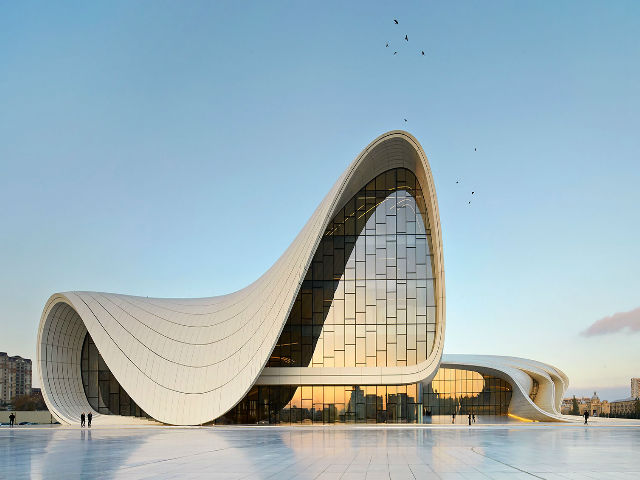
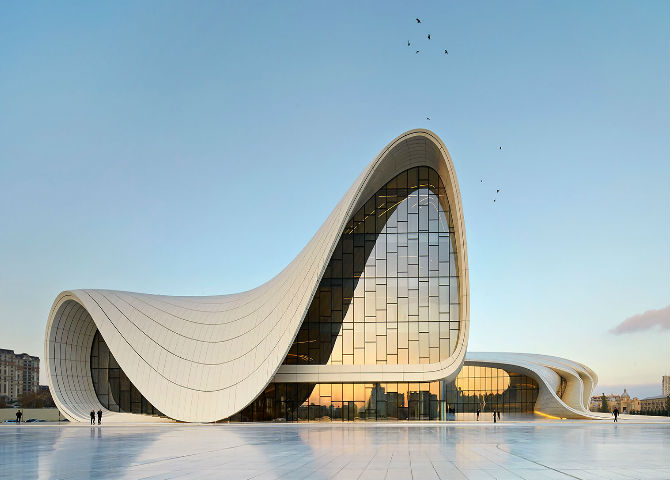
Reduced size of all slider images

diff --git a/infrastructure.php b/infrastructure.php
@@ -17,12 +17,14 @@
 
        <div class="infrastructure">
 
-         <div class="slider">
-           <ul class="bxslider">
-             <li><img src="images/Infrastructure/infrastructure1.jpg" /></li>
-             <li><img src="images/Infrastructure/infrastructure2.jpg" /></li>
-             <li><img src="images/Infrastructure/infrastructure3.jpg" /></li>
-           </ul>
+         <div class="col-md-offset-2 col-md-8 col-sm-offset-1 col-sm-10 col-lg-offset-2 col-lg-8">
+           <div class="slider">
+             <ul class="bxslider">
+               <li><img src="images/Infrastructure/infrastructure1new.jpg" /></li>
+               <li><img src="images/Infrastructure/infrastructure2new.jpg" /></li>
+               <li><img src="images/Infrastructure/infrastructure3new.jpg" /></li>
+             </ul>
+           </div>
          </div>
 
          <div class="col-md-8 col-lg-8">

diff --git a/construction.php b/construction.php
@@ -17,12 +17,14 @@
 
        <div class="construction">
 
-         <div class="slider">
-           <ul class="bxslider">
-             <li><img src="images/Construction/construction1.jpg" /></li>
-             <li><img src="images/Construction/construction2.jpg" /></li>
-             <li><img src="images/Construction/construction3.jpg" /></li>
-           </ul>
+         <div class="col-md-offset-2 col-md-8 col-sm-offset-1 col-sm-10 col-lg-offset-2 col-lg-8">
+           <div class="slider">
+             <ul class="bxslider">
+               <li><img src="images/Construction/construction1new.jpg" /></li>
+               <li><img src="images/Construction/construction2new.jpg" /></li>
+               <li><img src="images/Construction/construction3new.jpg" /></li>
+             </ul>
+           </div>
          </div>
 
          <div class="col-md-8 col-lg-8">

diff --git a/mep.php b/mep.php
@@ -17,12 +17,14 @@
 
        <div class="mep">
 
-         <div class="slider">
-           <ul class="bxslider">
-             <li><img src="images/MEP/mep1.jpg" /></li>
-             <li><img src="images/MEP/mep1.jpeg" /></li>
-             <li><img src="images/MEP/mep3.jpg" /></li>
-           </ul>
+         <div class="col-md-offset-2 col-md-8 col-sm-offset-1 col-sm-10 col-lg-offset-2 col-lg-8">
+           <div class="slider">
+             <ul class="bxslider">
+               <li><img src="images/MEP/mep1new.jpg" /></li>
+               <li><img src="images/MEP/mep2new.jpg" /></li>
+               <li><img src="images/MEP/mep3new.jpg" /></li>
+             </ul>
+           </div>
          </div>
 
          <div class="col-md-8 col-lg-8">

diff --git a/firefighting.php b/firefighting.php
@@ -17,11 +17,13 @@
 
        <div class="firefighting">
 
-         <div class="slider">
-           <ul class="bxslider">
-             <li><img src="images/Firefighting/firefighting1.jpg" /></li>
-             <li><img src="images/Firefighting/firefighting2.jpg" /></li>
-           </ul>
+         <div class="col-md-offset-2 col-md-8 col-sm-offset-1 col-sm-10 col-lg-offset-2 col-lg-8">
+           <div class="slider">
+             <ul class="bxslider">
+               <li><img src="images/Firefighting/firefighting1new.jpg" /></li>
+               <li><img src="images/Firefighting/firefighting2new.jpg" /></li>
+             </ul>
+           </div>
          </div>
 
          <div class="col-md-8 col-lg-8">

diff --git a/facility-management.php b/facility-management.php
@@ -17,12 +17,13 @@
 
        <div class="facility-management">
 
-         <div class="slider">
-           <ul class="bxslider">
-             <li><img src="images/Facility/facility1.jpg" /></li>
-             <li><img src="images/Facility/facility2.jpg" /></li>
-             
-           </ul>
+         <div class="col-md-offset-2 col-md-8 col-sm-offset-1 col-sm-10 col-lg-offset-2 col-lg-8">
+           <div class="slider">
+             <ul class="bxslider">
+               <li><img src="images/Facility/facility1new.jpg" /></li>
+               <li><img src="images/Facility/facility2new.jpg" /></li>
+             </ul>
+           </div>
          </div>
 
          <div class="col-md-8 col-lg-8">

diff --git a/index.php b/index.php
@@ -15,7 +15,7 @@
         require_once 'includes/header.php';
        ?>
 
-      <div class="col-md-offset-2 col-md-8 col-sm-offset-1 col-sm-10">
+      <div class="col-md-offset-2 col-md-8 col-sm-offset-1 col-sm-10 col-lg-offset-2 col-lg-8">
         <div class="slider">
           <ul class="bxslider">
             <li><img src="images/slider1new.jpg" /></li>
